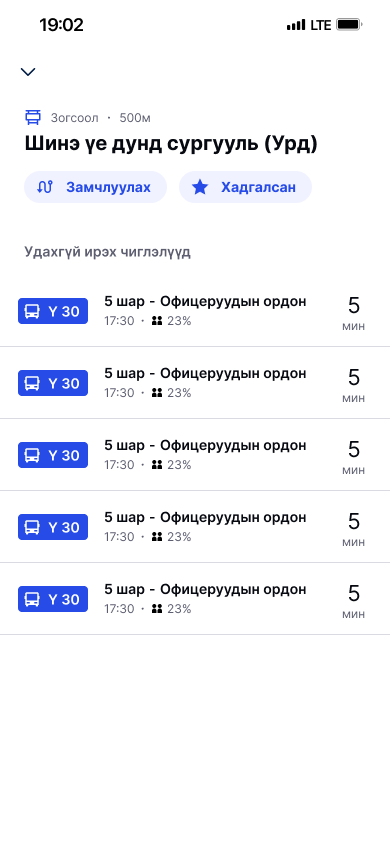
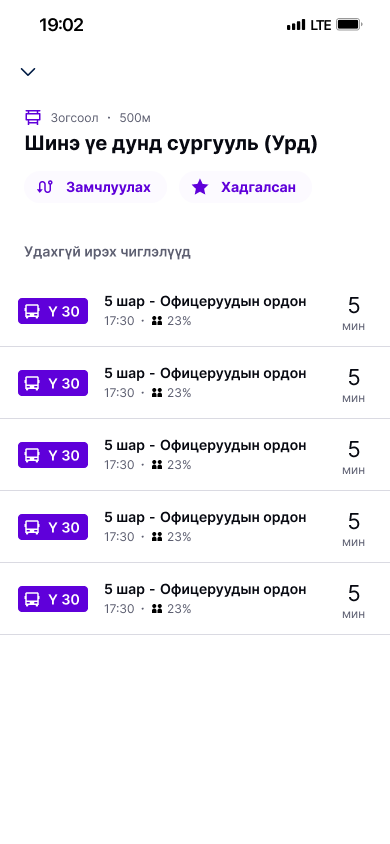
worked with the image component

diff --git a/src/app/sections/Hero.tsx b/src/app/sections/Hero.tsx
@@ -12,7 +12,7 @@ const createAnimatedText = (texts: string[], animationType: string) => {
   return texts.map((text, index) => (
     <SwipeWrapper key={index} animation={animationType} delay={index * 300}>
       <div
-        className={`text-4xl sm:text-3xl md:text-6xl font-bold lg:ml-10 mt-0 sm:mt-10 lg:mt-0 mb-4 text-center sm:text-left`}
+        className={`text-4xl text-ub-secondary sm:text-3xl md:text-6xl font-bold lg:ml-10 mt-0 sm:mt-10 lg:mt-0 mb-4 text-center sm:text-left`}
       >
         {text}
       </div>
@@ -51,7 +51,7 @@ const Hero: React.FC = () => {
           </p>
           <div className="flex flex-col sm:flex-row space-y-2 sm:space-y-0 sm:space-x-2 lg:pl-10">
             <a className=" flex justify-center">
-              <button className="  w-2/3 sm:w-24 md:w-32 lg:w-48 xl:w-56 2xl:w-64 text-gray-700 bg-white border border-black font-semibold  rounded-2xl flex items-center  justify-center gap-2 p-2">
+              <button className="  w-2/3 sm:w-24 md:w-32 lg:w-48 xl:w-56 2xl:w-64 text-gray-100 bg-ub-secondary  font-semibold  rounded-2xl flex items-center  justify-center gap-2 p-2">
                 <Image
                   alt="App Store Logo"
                   src={AppStore}
@@ -62,7 +62,7 @@ const Hero: React.FC = () => {
               </button>
             </a>
             <a className=" flex justify-center">
-              <button className="w-2/3 sm:w-24 md:w-32 lg:w-48 xl:w-56 2xl:w-64 text-gray-700 bg-white border border-black font-semibold  rounded-2xl flex items-center  justify-center gap-2 p-2">
+              <button className="w-2/3 sm:w-24 md:w-32 lg:w-48 xl:w-56 2xl:w-64 text-gray-100 bg-ub-secondary  font-semibold  rounded-2xl flex items-center  justify-center gap-2 p-2">
                 <Image
                   alt="Play Store Logo"
                   src={PlayStore}

diff --git a/src/app/sections/Visuals.tsx b/src/app/sections/Visuals.tsx
@@ -3,10 +3,9 @@ import Image from "next/image";
 
 import GG from "../../../public/images/figIMG/Home-Regular 3.png";
 import Payment from "../../../public/images/figIMG/Qpay.png";
-import map from "../../../public/images//figIMG/Stations 4.png";
 import bus_list from "../../../public/images/figIMG/Stations 1.png";
 import location from "../../../public/images/figIMG/Stations 4.png";
-import direction from "../../../public/images/figIMG/Get directions.png";
+import direction from "../../../public/images/figIMG/Биет-Картууд.png";
 
 import VisualWrapper from "../wrappers/VisualWrapper";
 
@@ -42,7 +41,7 @@ export default function Visuals() {
           text="Qpay, Socialpay болон банкны картаар төлбөр төлөх боломжтой хялбар төлбөрийн шийдэл"
         >
           <IPhone boxShadow="0px 5px 25px rgba(0,0,0,0.6)" width={screenSize}>
-            <AlignedImage src={Payment} alt="" priority />
+            <AlignedImage src={Payment} alt="" priority width={screenSize} />
           </IPhone>
         </VisualWrapper>
       </div>
@@ -79,7 +78,7 @@ export default function Visuals() {
           text="Qpay, Socialpay болон банкны картаар төлбөр төлөх боломжтой хялбар төлбөрийн шийдэл"
         >
           <IPhone boxShadow="0px 5px 25px rgba(0,0,0,0.6)" width={screenSize}>
-            <AlignedImage src={direction} alt="Payment" />
+            <Image src={direction} alt="Payment" fill priority />
           </IPhone>
         </VisualWrapper>
       </div>

diff --git a/src/app/wrappers/ContentWrapper.tsx b/src/app/wrappers/ContentWrapper.tsx
@@ -5,6 +5,7 @@ import { IPhone } from "@/app/components/iphone";
 import SideButton from "@/app/components/SideButton";
 import Image, { StaticImageData } from "next/image";
 import { useScreenSize } from "../components/getScreenSize";
+import AlignedImage from "../components/ImageFix";
 
 export type CardData = {
   title: string;
@@ -43,7 +44,12 @@ const ContentWrapper: React.FC<ContentWrapperProps> = ({
                 <Card title={card.title} description={card.description}>
                   <div className="flex w-11/12 md:w-7/10 mx-auto justify-center">
                     <IPhone boxShadow={undefined} width={screenSize}>
-                      <Image alt="" src={card.image} fill priority />
+                      <AlignedImage
+                        alt=""
+                        src={card.image}
+                        width={screenSize}
+                        priority
+                      />
                     </IPhone>
                   </div>
                 </Card>

diff --git a/src/app/components/ImageFix.tsx b/src/app/components/ImageFix.tsx
@@ -1,33 +1,20 @@
-import React from "react";
 import Image, { StaticImageData } from "next/image";
 
-interface AlignedImageProps {
+interface Props {
   src: StaticImageData;
   alt: string;
-  priority?: boolean;
+  priority: boolean;
+  width: number;
 }
 
-const AlignedImage: React.FC<AlignedImageProps> = ({
-  src,
-  alt,
-  priority = false,
-}) => {
+const AlignedImage = ({ src, alt, priority, width }: Props) => {
   return (
-    <div
-      style={{
-        position: "absolute",
-        top: 0,
-        left: 0,
-        height: "100%",
-        width: "100%",
-      }}
-    >
+    <div style={{ position: "absolute", width: width - 13, height: "100%" }}>
       <Image
         src={src}
         alt={alt}
-        layout="fill"
-        objectFit="cover"
         priority={priority}
+        style={{ position: "absolute", top: "4%" }}
       />
     </div>
   );

diff --git a/src/app/page/manualSections/Direction.tsx b/src/app/page/manualSections/Direction.tsx
@@ -1,4 +1,4 @@
-import image_1 from "../../../../public/images/manual/6_direction_1.png";
+import image_1 from "../../../../public/images/manual/Stations 1.jpg";
 import image_2 from "../../../../public/images/manual/6_direction_2.png";
 import image_3 from "../../../../public/images/manual/6_direction_3.png";
 import ContentWrapper, { CardData } from "@/app/wrappers/ContentWrapper";

diff --git a/src/app/page/manualSections/History.tsx b/src/app/page/manualSections/History.tsx
@@ -1,4 +1,4 @@
-import image_1 from "../../../../public/images/manual/8_history_1.png";
+import image_1 from "../../../../public/images/manual/Түүх.jpg";
 import image_2 from "../../../../public/images/manual/8_history_2.png";
 import image_3 from "../../../../public/images/manual/8_history_3.png";
 import ContentWrapper, { CardData } from "@/app/wrappers/ContentWrapper";
